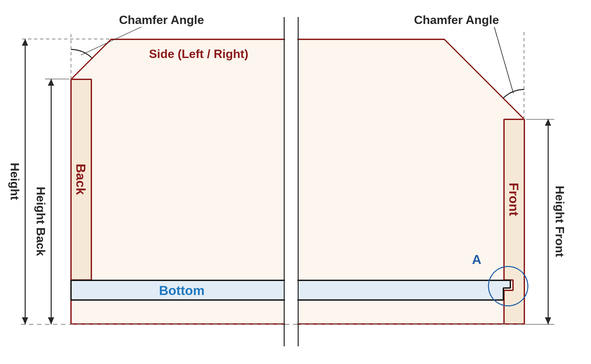
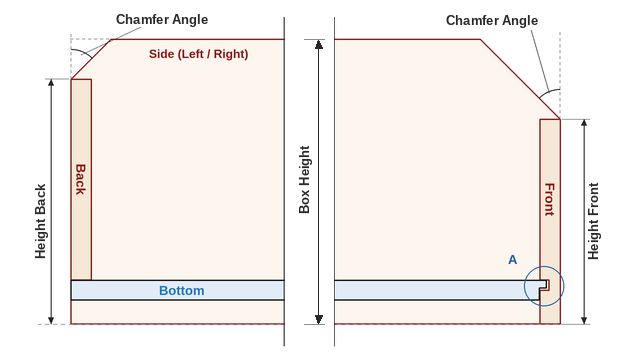
Open Chamfer und Grooved Bottom: Eingabefelder an die Zeichnungen verschoben

diff --git a/Simple_Box_Creator_dev.html b/Simple_Box_Creator_dev.html
@@ -187,39 +187,29 @@
     <div class="card-body clearfix">
       <div style="font-size: 13px; opacity: 0.8; margin-bottom: 8px;">Side Overhang: Front &amp; Back can each get their own height below the box height, tapered by a chamfer. Only available with Lid Type = Open Chamfer (a lidless box with chamfered Front and Back).</div>
 
-      <div class="clearfix">
-        <div style="float: left; margin-right: 20px;">
-          <img src="Images/ChamferedTop.png" alt="Sketch: Chamfer Angle, Height" />
+      <!-- Fields left (Back) and right (Front) of the sketch, first field level with the top edge of the box.
+           Sketch is shown 501px wide and 20% flatter than the original. Absolute positions inside a relative
+           wrapper only (IE7-safe).  -- by Claude 10/7/2026 -->
+      <div style="position: relative; width: 781px; height: 240px; margin: 0 auto;">
+        <img src="Images/ChamferedTop.png" alt="Sketch: Chamfer Angle, Height" style="position: absolute; left: 140px; top: 0; width: 501px; height: 233px;" />
+        <div style="position: absolute; left: 0px; top: 24px; width: 130px;" title="Angle of Back (End 2)'s own chamfer, measured from vertical (degrees), independently of Front's. 45 = classic symmetric chamfer; smaller = steeper/shorter, bigger = shallower/longer.">
+          <label for="End2ChamferAngleField" style="font-weight: bold; display: block; margin-bottom: 2px;">Back Chamfer</label>
+          <input type="number" step="any" min="1" max="89" id="End2ChamferAngleField" placeholder="Degrees" style="width: 100px;" onkeydown="return event.keyCode !== 189 && event.keyCode !== 109;" onchange="onGeometryFieldChanged()"/>
         </div>
-
-        <!-- Chamfer Angle + Height (Front/Back), to the right of the image -->
-        <div style="overflow: hidden;">
-          <div style="font-size: 15px; font-weight: bold; margin-bottom: 4px;">Chamfer Angle</div>
-          <div class="clearfix" style="margin-bottom: 8px;">
-            <div class="field-row" style="float: left; width: 170px; margin-right: 20px; margin-bottom: 0;" title="Angle of Front (End 1)'s own chamfer, measured from vertical (degrees). 45 = classic symmetric chamfer; smaller = steeper/shorter, bigger = shallower/longer. Its horizontal run is worked out from this angle and the actual overhang.">
-              <label for="End1ChamferAngleField">Front</label>
-              <input type="number" step="any" min="1" max="89" id="End1ChamferAngleField" placeholder="Degrees" onkeydown="return event.keyCode !== 189 && event.keyCode !== 109;" onchange="onGeometryFieldChanged()"/>
-            </div>
-            <div class="field-row" style="float: left; width: 170px; margin-bottom: 0;" title="Angle of Back (End 2)'s own chamfer, measured from vertical (degrees), independently of Front's. 45 = classic symmetric chamfer; smaller = steeper/shorter, bigger = shallower/longer.">
-              <label for="End2ChamferAngleField">Back</label>
-              <input type="number" step="any" min="1" max="89" id="End2ChamferAngleField" placeholder="Degrees" onkeydown="return event.keyCode !== 189 && event.keyCode !== 109;" onchange="onGeometryFieldChanged()"/>
-            </div>
-          </div>
-
-          <div style="font-size: 15px; font-weight: bold; margin-bottom: 4px;">Height</div>
-          <div class="clearfix" style="margin-bottom: 6px;">
-            <div class="field-row" style="float: left; width: 170px; margin-right: 20px; margin-bottom: 0;" title="Height of Front (End 1). Must be less than or equal to the box height - set it lower to create the overhang on that side. Defaults to the box height (= no overhang).">
-              <label for="End1HeightField">Front</label>
-              <input type="number" step="any" id="End1HeightField" placeholder="End height" oninput="onSideOverhangFieldsChanged()" onkeydown="return event.keyCode !== 189 && event.keyCode !== 109;" onchange="onGeometryFieldChanged()"/>
-            </div>
-            <div class="field-row" style="float: left; width: 170px; margin-bottom: 0;" title="Height of Back (End 2). Must be less than or equal to the box height - set it lower to create the overhang on that side. Defaults to the box height (= no overhang).">
-              <label for="End2HeightField">Back</label>
-              <input type="number" step="any" id="End2HeightField" placeholder="End height" oninput="onSideOverhangFieldsChanged()" onkeydown="return event.keyCode !== 189 && event.keyCode !== 109;" onchange="onGeometryFieldChanged()"/>
-            </div>
-          </div>
-          <div style="font-size: 11px; opacity: 0.8; min-height: 14px;" id="SideOverhangComputedText"></div>
+        <div style="position: absolute; left: 0px; top: 80px; width: 130px;" title="Height of Back (End 2). Must be less than or equal to the box height - set it lower to create the overhang on that side. Defaults to the box height (= no overhang).">
+          <label for="End2HeightField" style="font-weight: bold; display: block; margin-bottom: 2px;">Back Height</label>
+          <input type="number" step="any" id="End2HeightField" placeholder="End height" style="width: 100px;" oninput="onSideOverhangFieldsChanged()" onkeydown="return event.keyCode !== 189 && event.keyCode !== 109;" onchange="onGeometryFieldChanged()"/>
+        </div>
+        <div style="position: absolute; left: 651px; top: 24px; width: 130px;" title="Angle of Front (End 1)'s own chamfer, measured from vertical (degrees). 45 = classic symmetric chamfer; smaller = steeper/shorter, bigger = shallower/longer. Its horizontal run is worked out from this angle and the actual overhang.">
+          <label for="End1ChamferAngleField" style="font-weight: bold; display: block; margin-bottom: 2px;">Front Chamfer</label>
+          <input type="number" step="any" min="1" max="89" id="End1ChamferAngleField" placeholder="Degrees" style="width: 100px;" onkeydown="return event.keyCode !== 189 && event.keyCode !== 109;" onchange="onGeometryFieldChanged()"/>
+        </div>
+        <div style="position: absolute; left: 651px; top: 80px; width: 130px;" title="Height of Front (End 1). Must be less than or equal to the box height - set it lower to create the overhang on that side. Defaults to the box height (= no overhang).">
+          <label for="End1HeightField" style="font-weight: bold; display: block; margin-bottom: 2px;">Front Height</label>
+          <input type="number" step="any" id="End1HeightField" placeholder="End height" style="width: 100px;" oninput="onSideOverhangFieldsChanged()" onkeydown="return event.keyCode !== 189 && event.keyCode !== 109;" onchange="onGeometryFieldChanged()"/>
         </div>
       </div>
+      <div style="font-size: 11px; opacity: 0.8; min-height: 14px; text-align: center;" id="SideOverhangComputedText"></div>
     </div>
   </div>
 
@@ -230,44 +220,34 @@
     <div class="card-body clearfix">
       <div style="font-size: 13px; opacity: 0.8; margin-bottom: 8px;">Slide-in bottom: grooved into Side 1, Side 2 &amp; End 1 (Box joints only - with Dovetail joints, End 1's groove is skipped, since it would land inside the angled dovetail tails there). End 2 is shortened to the top of the groove, so the panel can always slide in/out there, even after glue-up. Uncheck "Bottom" under Faces To Machine below to keep the groove but skip cutting the panel itself (e.g. to slide in your own material).</div>
 
-      <div class="clearfix">
-        <div style="float: left; width: 200px; margin-right: 20px;">
-          <img src="Images/GroovedOverhangSketch.png" alt="Sketch: Side, Chamfer Angle, Height, Groove offset, Groove width, Groove depth, rabbet correction, Bottom Clearance" style="width: 200px; height: auto;" />
+      <!-- Fields left and right of the sketch, each level with its dimension label in the drawing.
+           Sketch shown at 209x251 (25% smaller). Absolute positions inside a relative wrapper only (IE7-safe).
+                                                               -- by Claude 10/7/2026 -->
+      <div style="position: relative; width: 562px; height: 251px; margin: 0 auto;">
+        <img src="Images/GroovedOverhangSketch_209.png" alt="Sketch: Side, Chamfer Angle, Height, Groove offset, Groove width, Groove depth, rabbet correction, Bottom Clearance" style="position: absolute; left: 212px; top: 0; width: 209px; height: 251px;" />
+        <div style="position: absolute; left: 72px; top: 112px; width: 130px; text-align: right;" title="How deep the groove is plowed into Side 1, Side 2 and End 1 (must be less than the material thickness)">
+          <label for="BottomGrooveDepthField" style="font-weight: bold; display: block; margin-bottom: 2px;">Groove depth</label>
+          <input type="number" step="any" id="BottomGrooveDepthField" placeholder="Groove depth" style="width: 100px;" onkeydown="return event.keyCode !== 189 && event.keyCode !== 109;"/>
         </div>
-
-        <!-- Right: Groove offset/width/depth, Bottom same material, Bottom Clearance, Rabbet correction, to the right of the image -->
-        <div style="overflow: hidden;">
-          <div class="clearfix" style="margin-bottom: 8px;">
-            <div class="field-row" style="float: left; width: 170px; margin-right: 20px; margin-bottom: 0;" title="Distance from the outer bottom edge of the walls up to the TOP of the groove that captures the bottom panel (must be at least the groove width)">
-              <label for="BottomGrooveOffsetField">Groove offset</label>
-              <input type="number" step="any" id="BottomGrooveOffsetField" placeholder="Groove offset" onkeydown="return event.keyCode !== 189 && event.keyCode !== 109;"/>
-            </div>
-            <div class="field-row" style="float: left; width: 170px; margin-bottom: 0;" title="Width of the groove slot (vertical height of the dado), independent of material thickness - set this to the actual thickness of the bottom panel you'll slide in, e.g. 4mm for a thin plywood/hardboard bottom. If 'Same material' is checked, set this to whatever width you want the rabbeted edge to seat at (can be smaller than the material thickness).">
-              <label for="BottomGrooveWidthField">Groove width</label>
-              <input type="number" step="any" id="BottomGrooveWidthField" placeholder="Groove width" onkeydown="return event.keyCode !== 189 && event.keyCode !== 109;"/>
-            </div>
-          </div>
-          <div class="clearfix" style="margin-bottom: 10px;">
-            <div class="field-row" style="float: left; width: 170px; margin-bottom: 0;" title="How deep the groove is plowed into Side 1, Side 2 and End 1 (must be less than the material thickness)">
-              <label for="BottomGrooveDepthField">Groove depth</label>
-              <input type="number" step="any" id="BottomGrooveDepthField" placeholder="Groove depth" onkeydown="return event.keyCode !== 189 && event.keyCode !== 109;"/>
-            </div>
-          </div>
-
-          <div class="checkbox-row" title="Cut the bottom panel from the same (full) material thickness as the walls. A rabbet (Falz) is then milled along the panel's Side 1, Side 2 and End 1 edges, down to the groove width, so it still seats in the (narrower) groove. End 2's edge stays full thickness, since the panel is slid in from that opening.">
-            <input type="checkbox" id="BottomSameMaterial"/>
-            <label for="BottomSameMaterial">Bottom same material (rabbet 3 sides)</label>
-          </div>
-          <div class="clearfix" style="margin-top: 6px;">
-            <div class="field-row" style="float: left; width: 170px; margin-right: 20px; margin-bottom: 0;" title="'Luft seitlich' - clearance subtracted from how far the panel reaches into each of the 3 grooves (Side 1, Side 2, End 1), for an easier slide fit. Only used when 'Same material' is checked.">
-              <label for="BottomGrooveClearanceField">Bottom Clearance</label>
-              <input type="number" step="any" id="BottomGrooveClearanceField" placeholder="Clearance" onkeydown="return event.keyCode !== 189 && event.keyCode !== 109;"/>
-            </div>
-            <div class="field-row" style="float: left; width: 170px; margin-bottom: 0;" title="'Falz Luft' - fine-tune correction added to the computed rabbet depth (material thickness minus groove width), e.g. a small positive value for a looser fit, negative for tighter. Only used when 'Same material' is checked.">
-              <label for="BottomRabbetCorrectionField">Rabbet correction</label>
-              <input type="number" step="any" id="BottomRabbetCorrectionField" placeholder="Correction" onkeydown="return event.keyCode !== 189 && event.keyCode !== 109;"/>
-            </div>
-          </div>
+        <div style="position: absolute; left: -88px; top: 172px; width: 290px; line-height: 1.4; white-space: nowrap; text-align: right;" title="Cut the bottom panel from the same (full) material thickness as the walls. A rabbet (Falz) is then milled along the panel's Side 1, Side 2 and End 1 edges, down to the groove width, so it still seats in the (narrower) groove. End 2's edge stays full thickness, since the panel is slid in from that opening.">
+          <input type="checkbox" id="BottomSameMaterial"/>
+          <label for="BottomSameMaterial" style="font-weight: bold;">Bottom same material</label>
+        </div>
+        <div style="position: absolute; left: 72px; bottom: 0; width: 130px; text-align: right;" title="'Falz Luft' - fine-tune correction added to the computed rabbet depth (material thickness minus groove width), e.g. a small positive value for a looser fit, negative for tighter. Only used when 'Same material' is checked.">
+          <label for="BottomRabbetCorrectionField" style="font-weight: bold; display: block; margin-bottom: 2px; color: #1155A2; white-space: nowrap;">Rabbet correction</label>
+          <input type="number" step="any" id="BottomRabbetCorrectionField" placeholder="Correction" style="width: 100px;" onkeydown="return event.keyCode !== 189 && event.keyCode !== 109;"/>
+        </div>
+        <div style="position: absolute; left: 431px; top: 117px; width: 130px;" title="Width of the groove slot (vertical height of the dado), independent of material thickness - set this to the actual thickness of the bottom panel you'll slide in, e.g. 4mm for a thin plywood/hardboard bottom. If 'Same material' is checked, set this to whatever width you want the rabbeted edge to seat at (can be smaller than the material thickness).">
+          <label for="BottomGrooveWidthField" style="font-weight: bold; display: block; margin-bottom: 2px;">Groove width</label>
+          <input type="number" step="any" id="BottomGrooveWidthField" placeholder="Groove width" style="width: 100px;" onkeydown="return event.keyCode !== 189 && event.keyCode !== 109;"/>
+        </div>
+        <div style="position: absolute; left: 431px; top: 163px; width: 130px;" title="Distance from the outer bottom edge of the walls up to the TOP of the groove that captures the bottom panel (must be at least the groove width)">
+          <label for="BottomGrooveOffsetField" style="font-weight: bold; display: block; margin-bottom: 2px;">Groove offset</label>
+          <input type="number" step="any" id="BottomGrooveOffsetField" placeholder="Groove offset" style="width: 100px;" onkeydown="return event.keyCode !== 189 && event.keyCode !== 109;"/>
+        </div>
+        <div style="position: absolute; left: 431px; bottom: 0; width: 160px;" title="'Luft seitlich' - clearance subtracted from how far the panel reaches into each of the 3 grooves (Side 1, Side 2, End 1), for an easier slide fit. Only used when 'Same material' is checked.">
+          <label for="BottomGrooveClearanceField" style="font-weight: bold; display: block; margin-bottom: 2px; color: #BA2819; white-space: nowrap;">Bottom Clearance</label>
+          <input type="number" step="any" id="BottomGrooveClearanceField" placeholder="Clearance" style="width: 100px;" onkeydown="return event.keyCode !== 189 && event.keyCode !== 109;"/>
         </div>
       </div>
     </div>
@@ -403,6 +383,23 @@
       document.body.className = document.body.className + " dark-mode";
     } else {
       document.body.className = document.body.className.replace(" dark-mode", "").replace("dark-mode", "");
+    }
+    applyThemedLabelColors(checkbox.checked);
+  }
+
+  // Labels that carry the colour of their dimension in the sketch (red / blue). The dark
+  // text colours are hard to read on the dark background, so each gets a lighter variant
+  // there: [light mode, dark mode]. Plain DOM calls only, so it stays IE7-safe.
+  // -- by Claude 10/7/2026
+  var g_themedLabels = {
+    "BottomGrooveClearanceField":  ["#BA2819", "#FF8A7A"],
+    "BottomRabbetCorrectionField": ["#1155A2", "#7DB4F5"]
+  };
+  function applyThemedLabelColors(isDark) {
+    var labels = document.getElementsByTagName("label");
+    for (var i = 0; i < labels.length; i++) {
+      var colors = g_themedLabels[labels[i].htmlFor];
+      if (colors) { labels[i].style.color = isDark ? colors[1] : colors[0]; }
     }
   }
 
